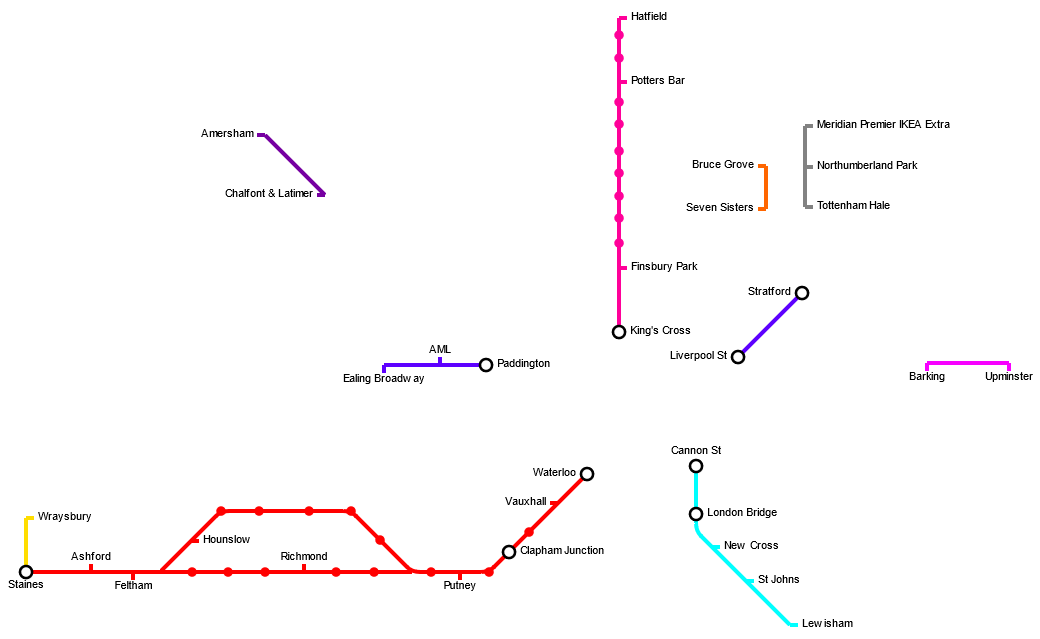
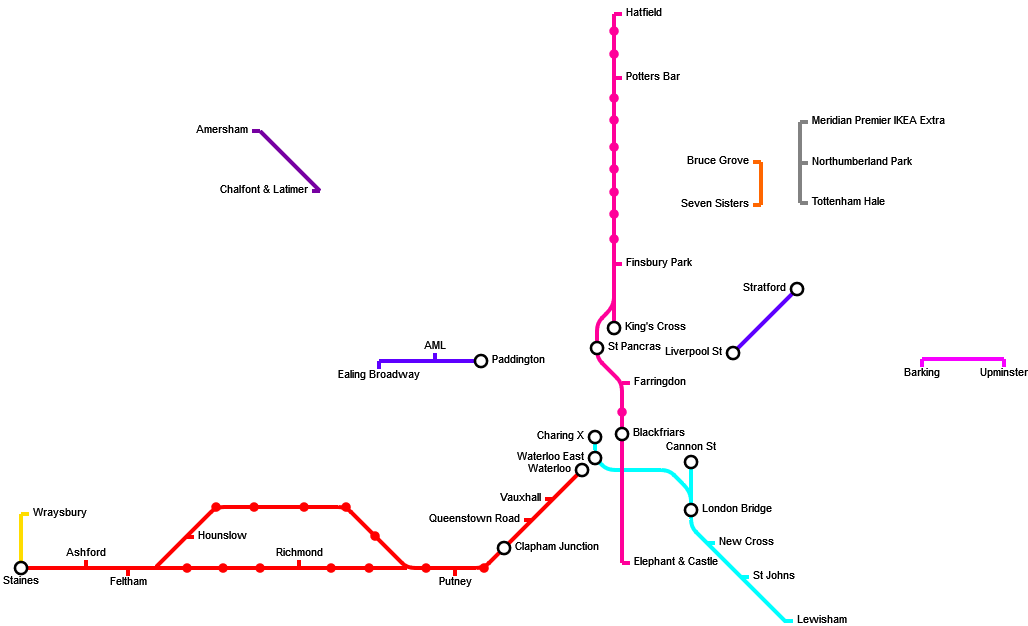
Maps

diff --git a/koppa.html b/koppa.html
@@ -114,7 +114,7 @@ $(function(){
 <br><br>	  
 	<center>
 		  <img src="https://i.imgur.com/NKg0yQE.gif" width="40%">
-		  <img src="./resources/photos/Koppa 8 Map.png" width="58%">
+		  <img src="./resources/photos/Koppa 9 Map.png" width="58%">
 		  <br><br>
 		  <img src="./resources/photos/Koppa Orphan Map.png" width="40%">
 	</center>
